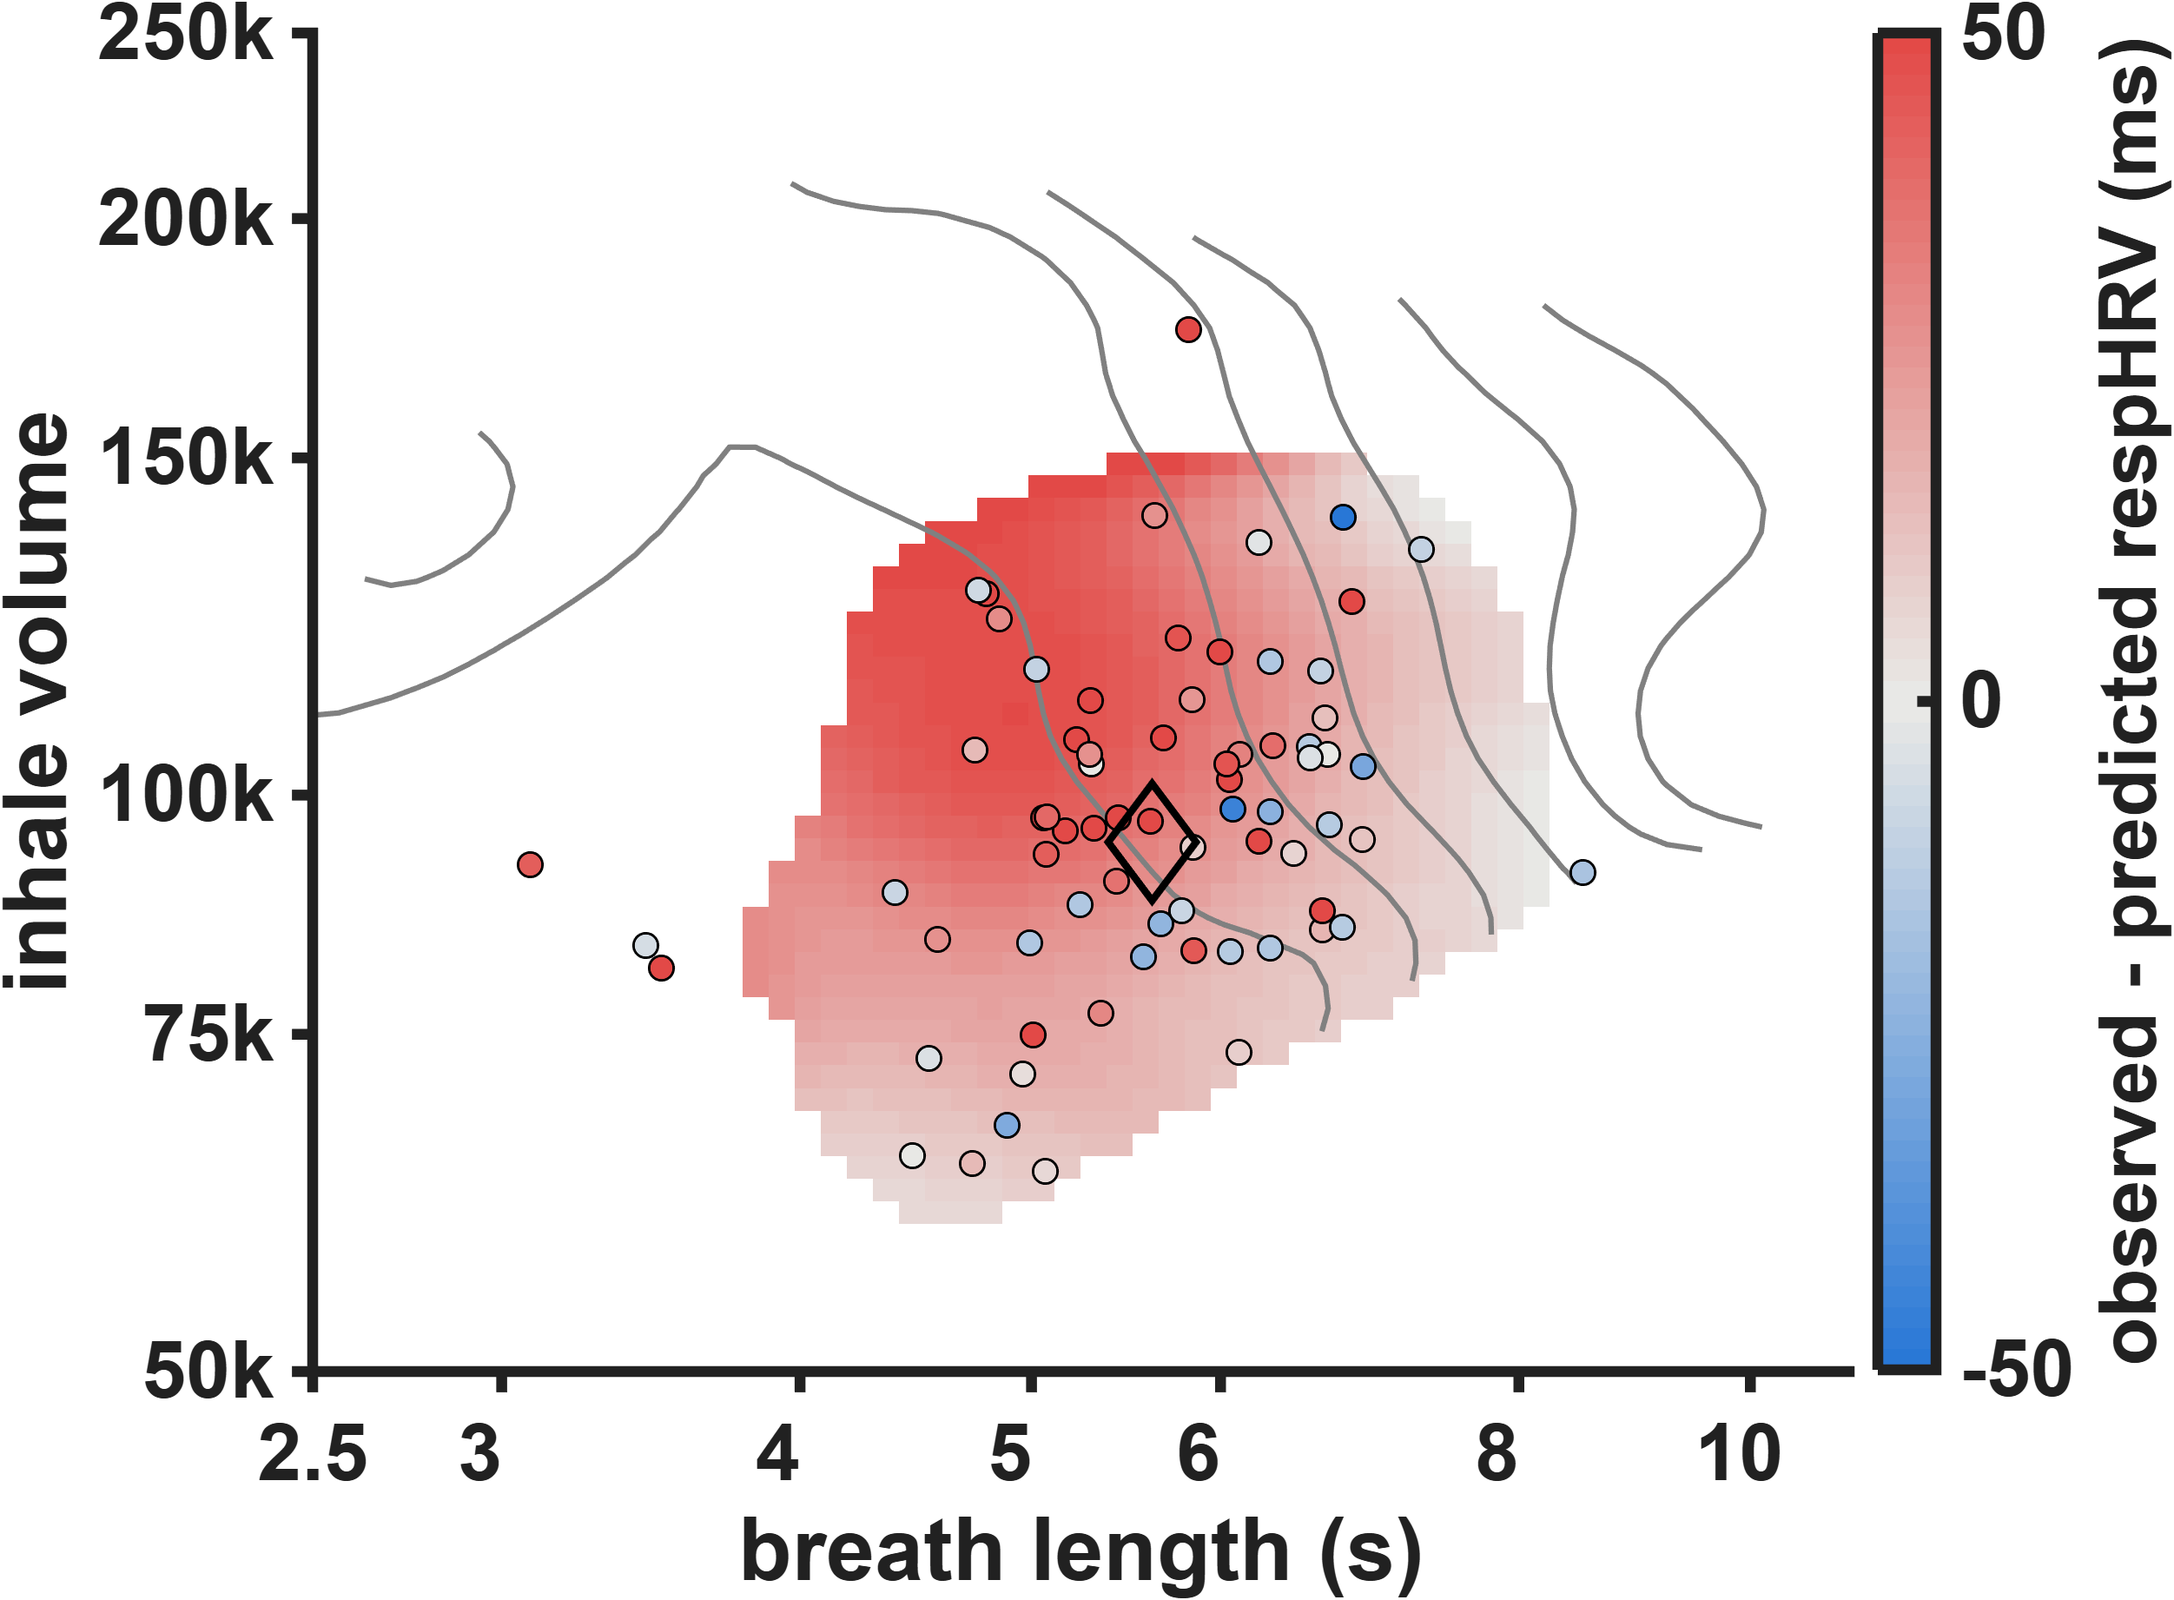
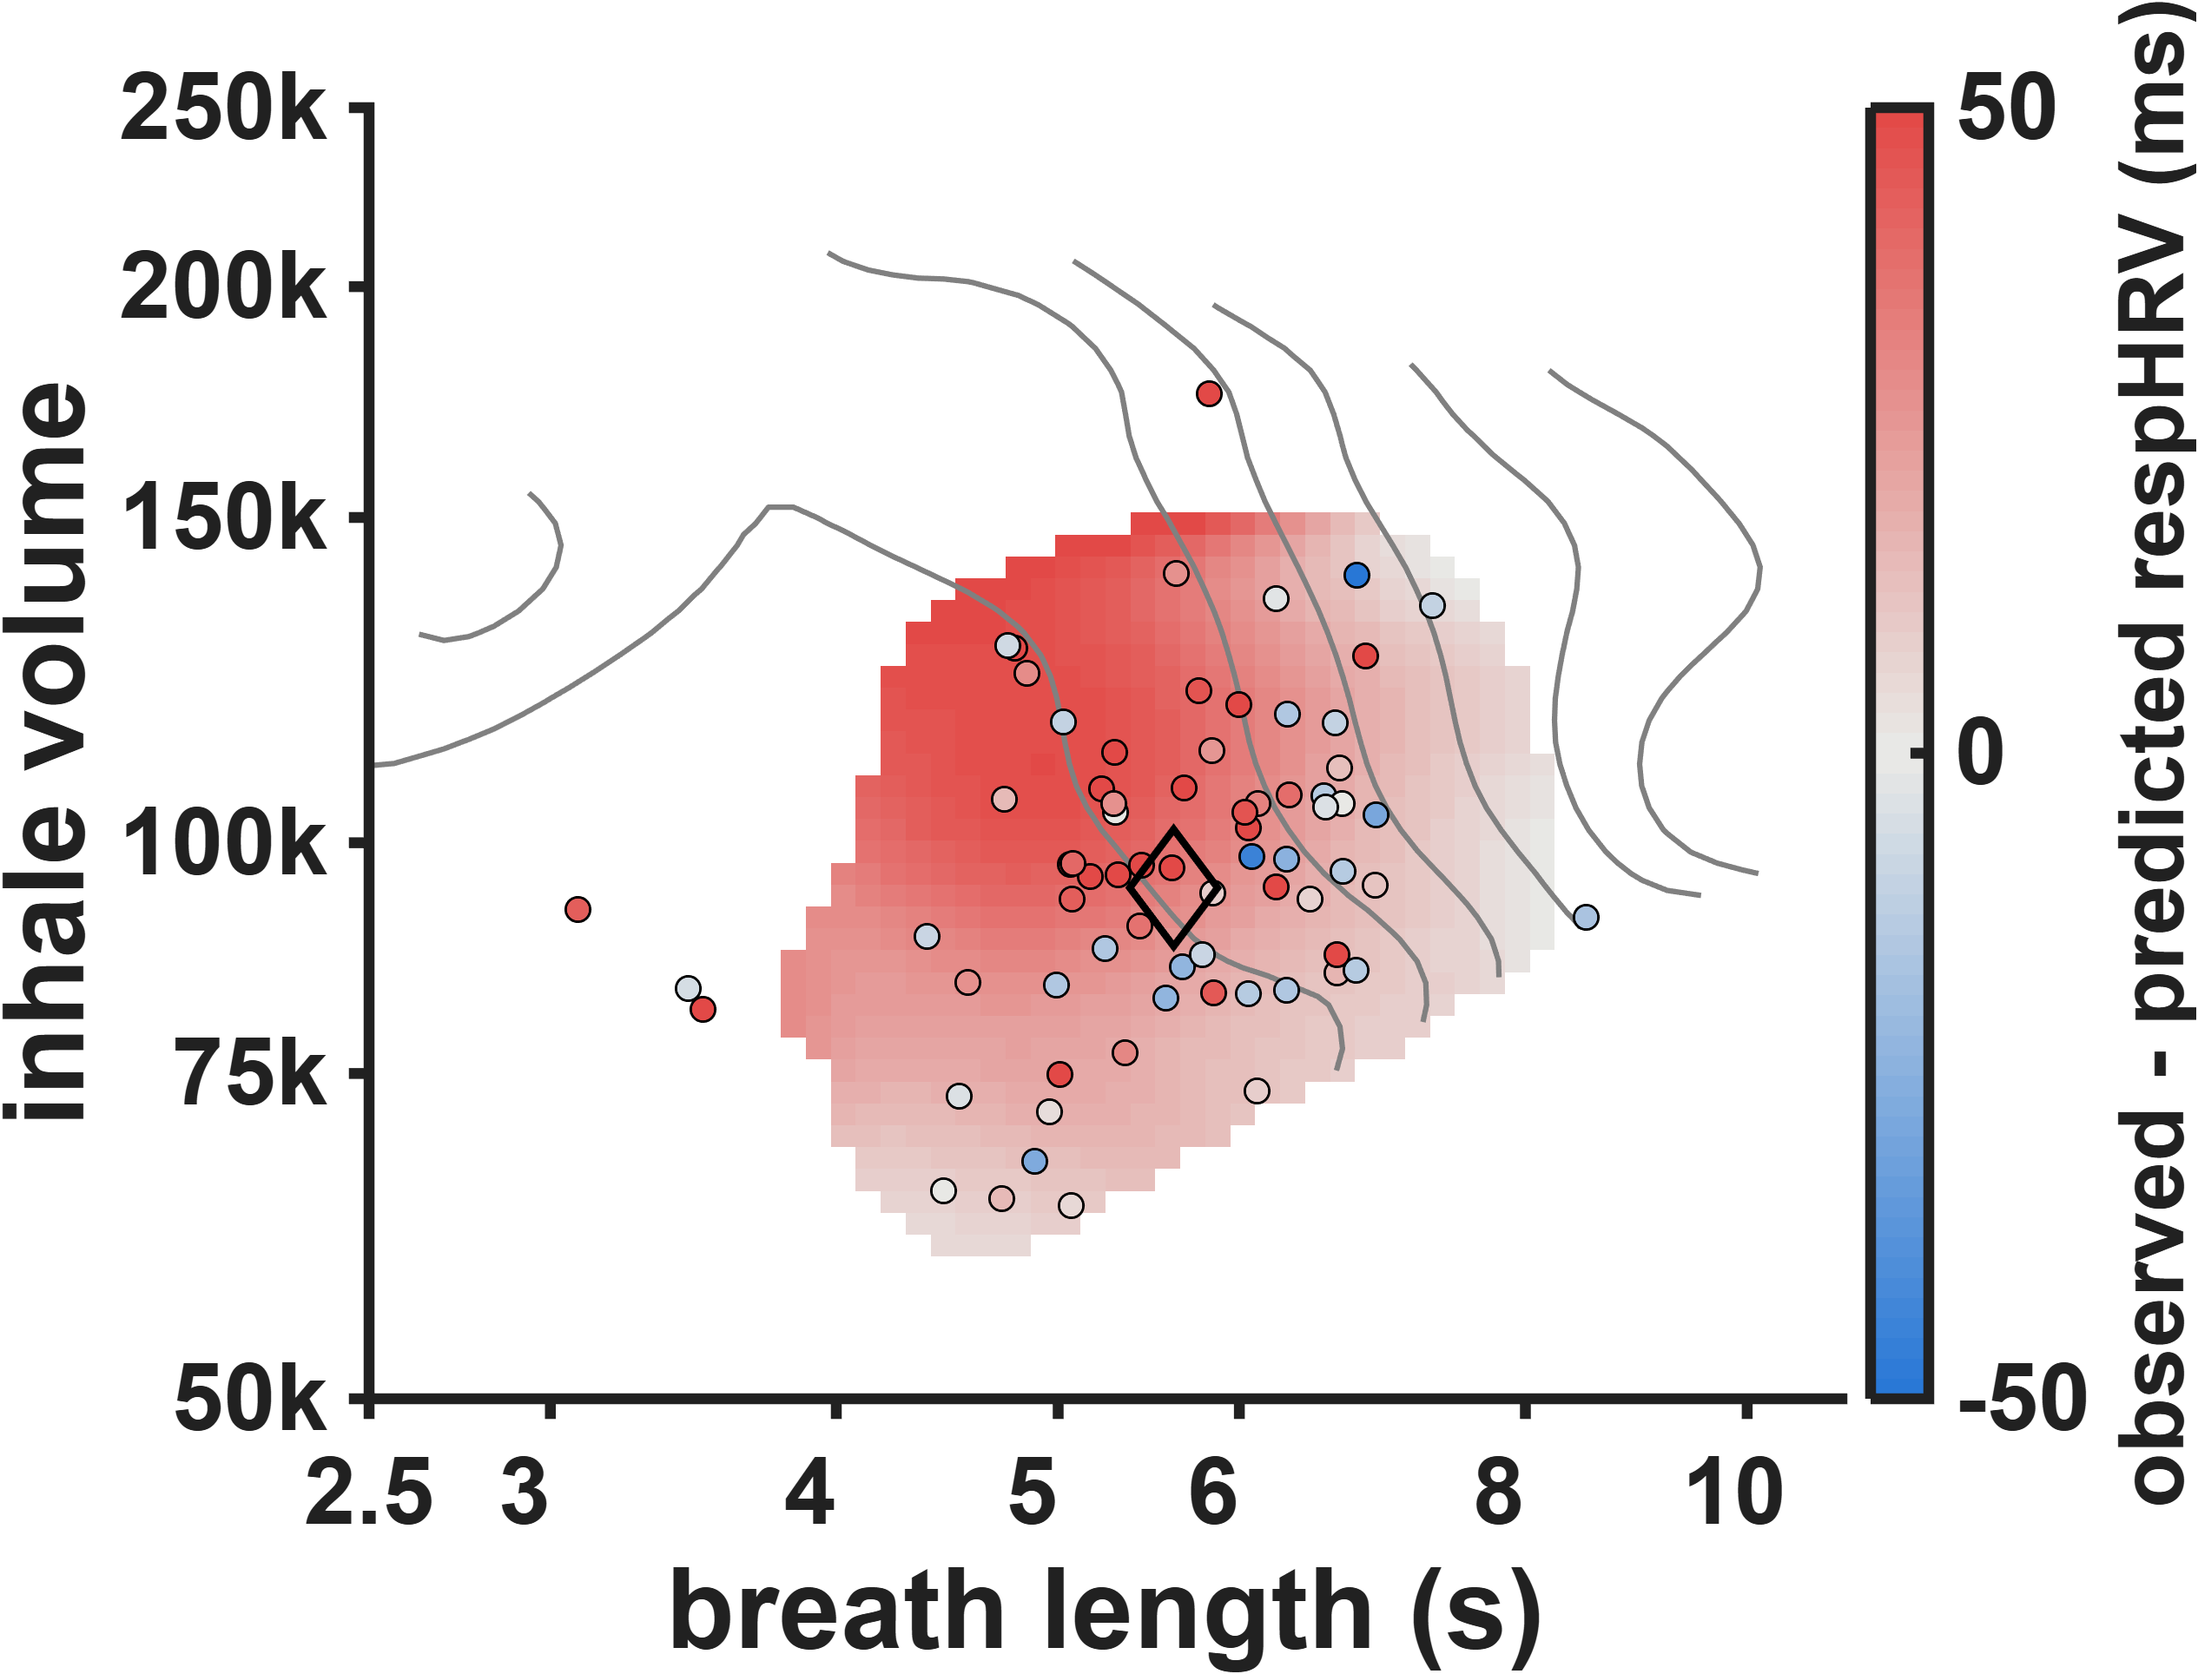
grant figures: larger fonts on the two respHRV surface panels (axes, ticks, colorbar, contour labels)

diff --git a/reports/pacedBreathing_grantFigures/grantFigs.m b/reports/pacedBreathing_grantFigures/grantFigs.m
@@ -15,6 +15,7 @@ PRESEC.jw = 361;                          % JW opening = first recording file (6
 
 % ---- fonts / axis styling (one place) ----
 FS_TICK = 22; FS_LAB = 27; AXLW = 3;
+FS_TICK_S = 26; FS_LAB_S = 31;   % slightly larger fonts for the two surface figures
 styleAx = @(ax) set(ax, 'FontSize', FS_TICK, 'FontWeight', 'bold', 'LineWidth', AXLW, ...
     'Box', 'off', 'TickDir', 'out', 'Color', 'w', 'Layer', 'top');
 cBase = [0.60 0.60 0.60]; cPace = [0 0 0]; cATB = [0 0.45 0.74];
@@ -167,7 +168,7 @@ colormap(ax, blueRamp); clim(ax, [50 160]);
 cb = colorbar(ax); cb.Label.String = 'respHRV (ms)'; cb.Label.FontSize = FS_LAB; cb.Label.FontWeight = 'bold';
 cb.FontSize = FS_TICK; cb.LineWidth = AXLW;
 [C, hc] = contour(ax, gL, gA, Zhat, 60:20:160, 'LineColor', 'w', 'LineWidth', 2);
-clabel(C, hc, 'Color', 'w', 'FontSize', 15, 'FontWeight', 'bold');
+clabel(C, hc, 'Color', 'w', 'FontSize', 18, 'FontWeight', 'bold');
 gp = inRange(log(Ap)); scatter(ax, log(Lp(gp)), log(Ap(gp)), 12, [0.55 0.55 0.55], 'filled', 'MarkerFaceAlpha', 0.4);
 gf = inRange(log(Af)); scatter(ax, log(Lf(gf)), log(Af(gf)), 40, cATB, 'filled', 'MarkerEdgeColor', 'w', 'LineWidth', 0.7);
 plot(ax, log(mean(Lf)), log(mean(Af)), 'd', 'MarkerSize', 22, 'MarkerFaceColor', cATB, 'MarkerEdgeColor', 'k', 'LineWidth', 2);
@@ -176,6 +177,8 @@ set(ax, 'XTick', log(tickL), 'XTickLabel', tickL, 'YTick', log(tickA), 'YTickLab
 xlabel(ax, 'breath length (s)', 'FontSize', FS_LAB, 'FontWeight', 'bold');
 ylabel(ax, 'inhale volume', 'FontSize', FS_LAB, 'FontWeight', 'bold');
 styleAx(ax);
+set(ax, 'FontSize', FS_TICK_S); ax.XLabel.FontSize = FS_LAB_S; ax.YLabel.FontSize = FS_LAB_S;
+cb.FontSize = FS_TICK_S; cb.Label.FontSize = FS_LAB_S;
 exportgraphics(fig, fullfile(OUT, 'JW_RSA_surface.png'), 'Resolution', 300, 'BackgroundColor', 'white');
 close(fig);
 
@@ -196,6 +199,8 @@ set(ax, 'XTick', log(tickL), 'XTickLabel', tickL, 'YTick', log(tickA), 'YTickLab
 xlabel(ax, 'breath length (s)', 'FontSize', FS_LAB, 'FontWeight', 'bold');
 ylabel(ax, 'inhale volume', 'FontSize', FS_LAB, 'FontWeight', 'bold');
 styleAx(ax);
+set(ax, 'FontSize', FS_TICK_S); ax.XLabel.FontSize = FS_LAB_S; ax.YLabel.FontSize = FS_LAB_S;
+cb.FontSize = FS_TICK_S; cb.Label.FontSize = FS_LAB_S - 6;
 exportgraphics(fig, fullfile(OUT, 'JW_ATB_error_surface.png'), 'Resolution', 300, 'BackgroundColor', 'white');
 close(fig);
 
